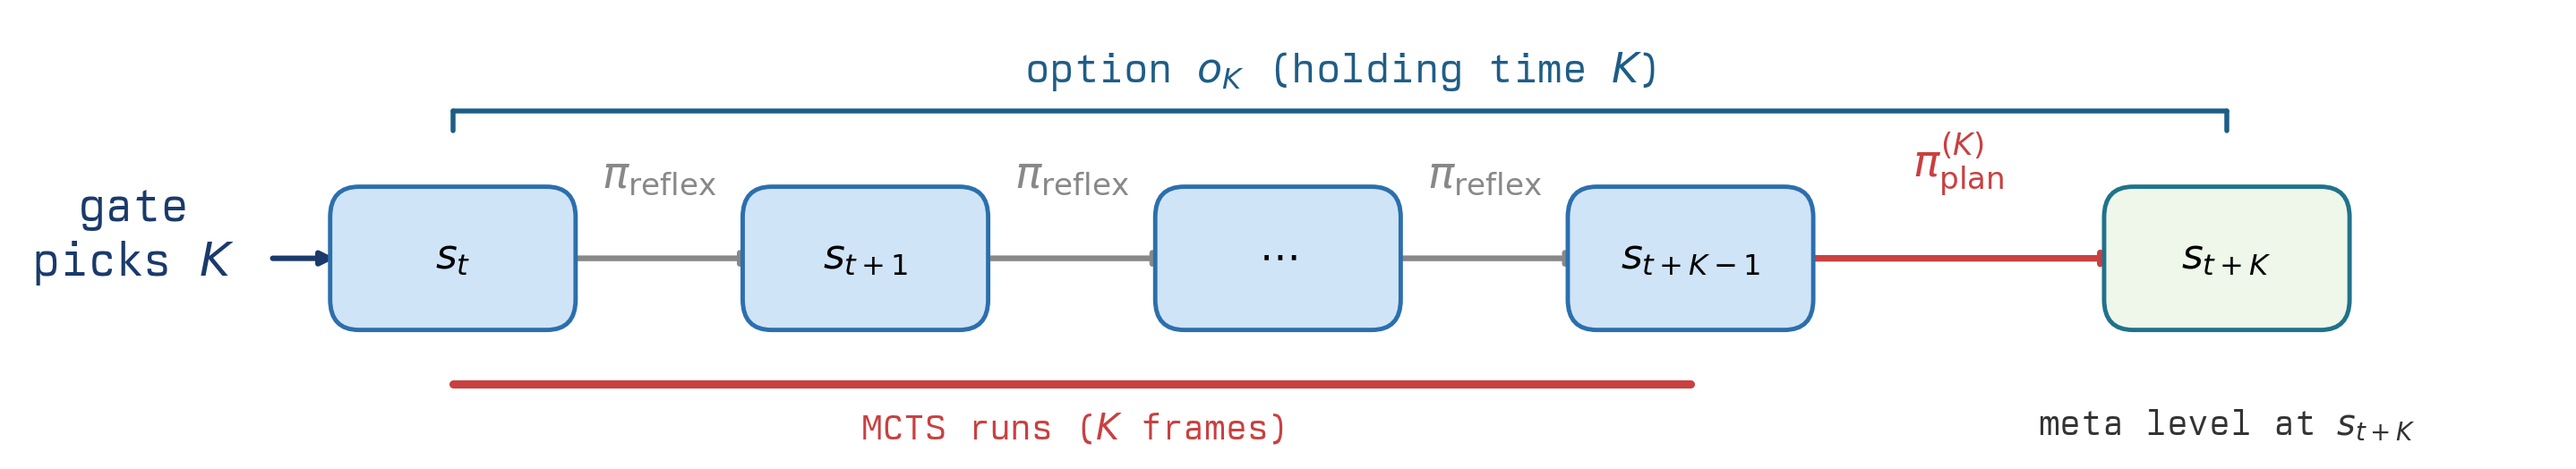
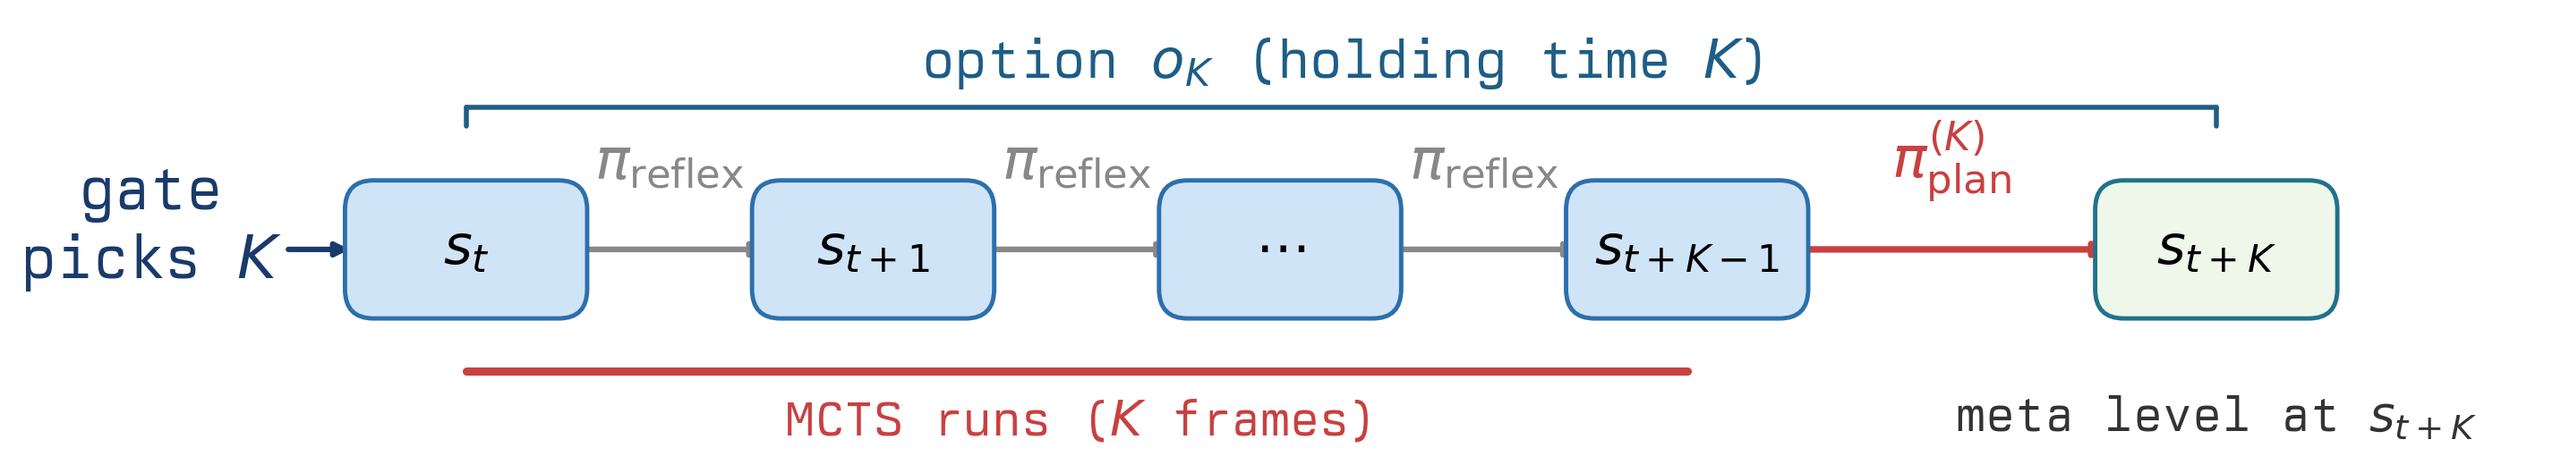
increased font size

diff --git a/plot_option_timeline.py b/plot_option_timeline.py
@@ -48,17 +48,18 @@ OUT_PNG = os.path.join(FIGS, "option_timeline.png")
 
 FIG_W = 13.0
 FIG_H = 2.28
+PLUS_FONT = 5
 
 STATE_W = 1.15
 STATE_H = 0.62
 Y_STATE = 0.0
 X_STATES = [0.0, 2.0, 4.0, 6.0, 8.6]
 
-FONT_STATE = FS_ANNOT + 1
-FONT_LABEL = FS_ANNOT + 1
-FONT_SMALL = FS_ANNOT - 1
-FONT_GATE = FS_BADGE - 3
-FONT_ACTION = FS_ANNOT + 2
+FONT_STATE = FS_ANNOT + 1 + PLUS_FONT
+FONT_LABEL = FS_ANNOT + 1 + PLUS_FONT
+FONT_SMALL = FS_ANNOT - 1 + PLUS_FONT
+FONT_GATE = FS_BADGE - 3 + PLUS_FONT
+FONT_ACTION = FS_ANNOT + 2 + PLUS_FONT
 
 FINAL_STATE_COLOR = sns.color_palette("crest", 7)[4]
 OPTION_COLOR = sns.color_palette("crest", 7)[5]
@@ -167,7 +168,17 @@ def draw():
     _arrow(ax, X_STATES[0], X_STATES[1], Y_STATE, r"$\pi_{\mathrm{reflex}}$", C_MID_GRAY, fsize=FONT_ACTION)
     _arrow(ax, X_STATES[1], X_STATES[2], Y_STATE, r"$\pi_{\mathrm{reflex}}$", C_MID_GRAY, fsize=FONT_ACTION)
     _arrow(ax, X_STATES[2], X_STATES[3], Y_STATE, r"$\pi_{\mathrm{reflex}}$", C_MID_GRAY, fsize=FONT_ACTION)
-    _arrow(ax, X_STATES[3], X_STATES[4], Y_STATE, r"$\pi_{\mathrm{plan}}^{(K)}$", C_RED, lw=2.4, fsize=FONT_ACTION)
+    _arrow(
+        ax,
+        X_STATES[3],
+        X_STATES[4],
+        Y_STATE,
+        r"$\pi_{\mathrm{plan}}^{(K)}$",
+        C_RED,
+        dy=0.22,
+        lw=2.4,
+        fsize=FONT_ACTION,
+    )
 
     _mcts_bar(
         ax,
